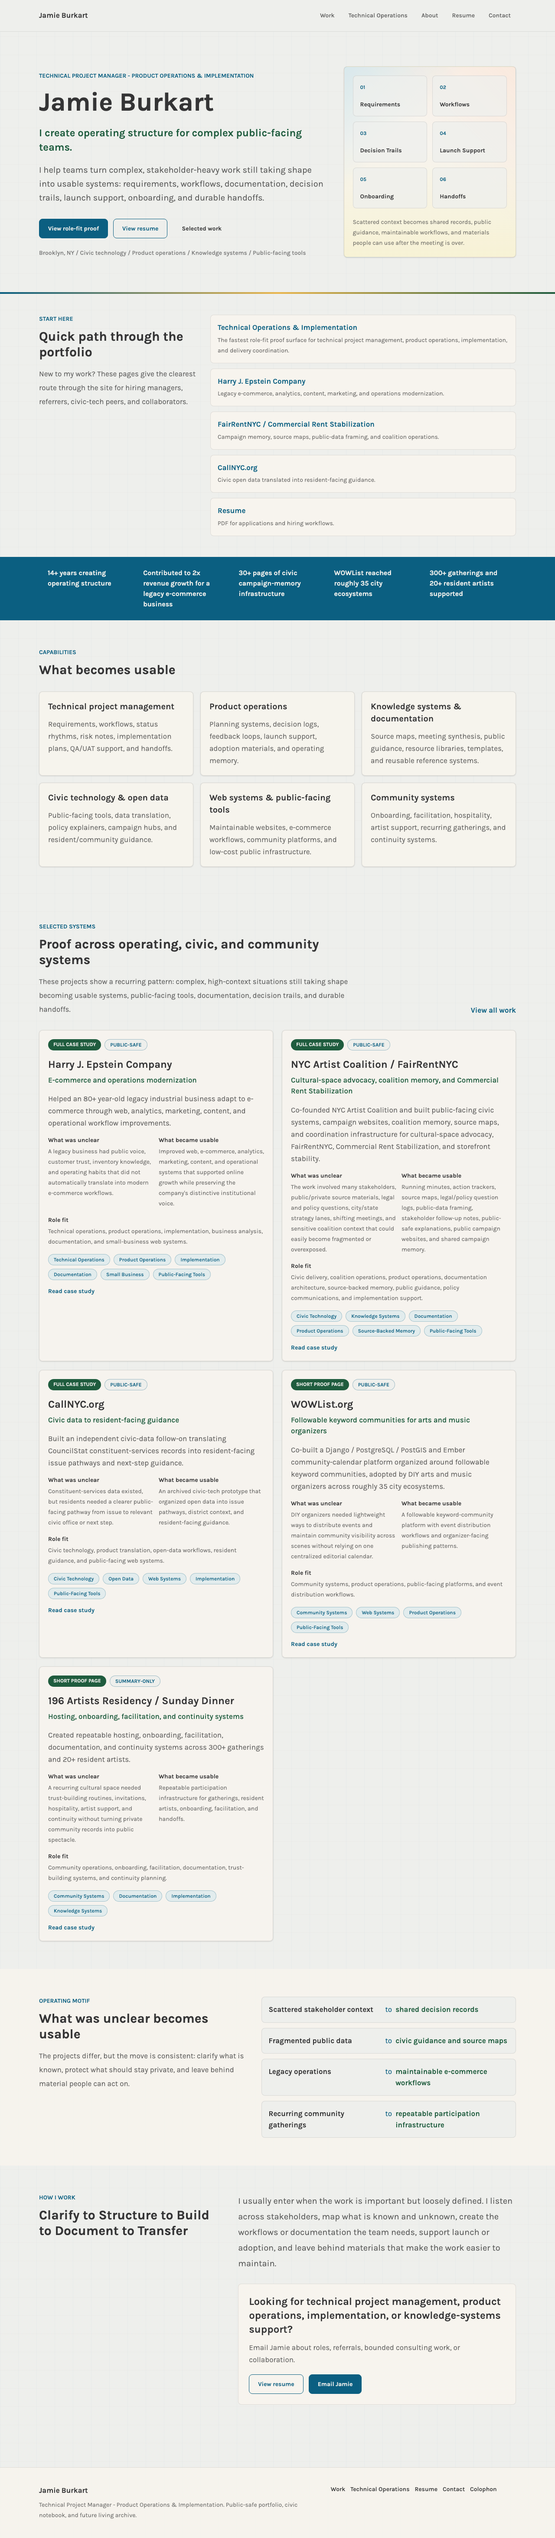
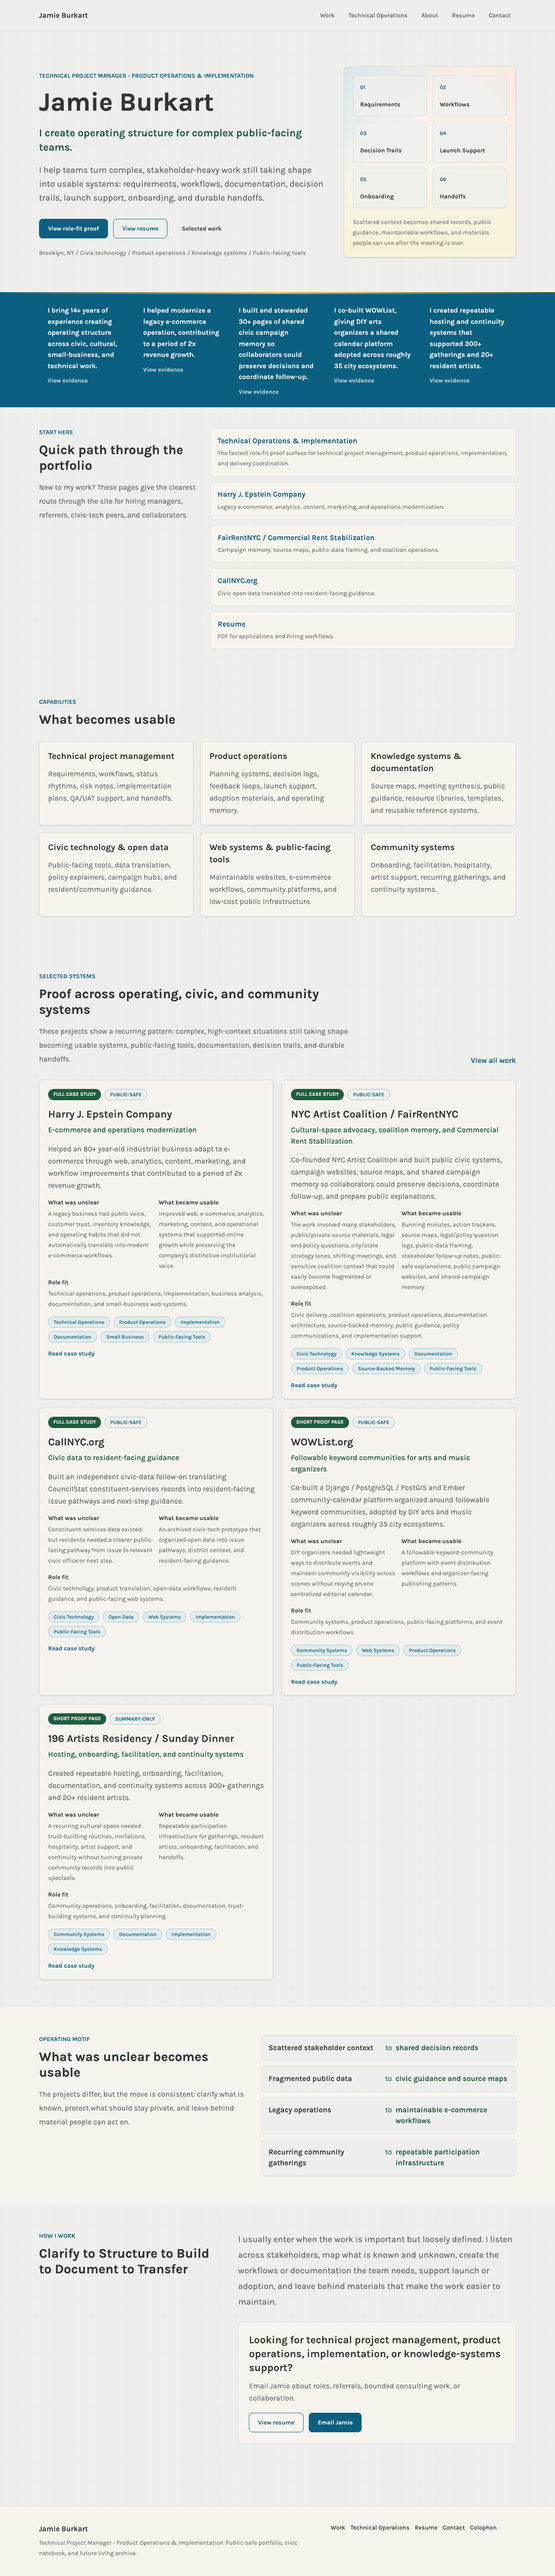
docs: record Chad-lens hill climb

diff --git a/docs/qa/evals-G/README.md b/docs/qa/evals-G/README.md
@@ -1,15 +1,15 @@
 # Recursive Portfolio Eval Run: feature/evals-G
 
-- Date: 2026-07-12
+- Date: 2026-07-13
 - Base: `origin/develop` at `2ec37fe6e47d11e600ede204d19a98f7d3cff139`
-- Reviewed application candidate: `b772a6f3`
-- Protocol: `portfolio-production-readiness`, version 2
+- Reviewed application candidate: `5d872a92`
+- Protocol: `portfolio-production-readiness`, version 3
 - Decision: `stop_human_blocked`
 
 ## Result
 
 The candidate clears the deterministic and LLM-scored portion of the
-application-share profile with a normalized weighted score of `0.8354` against
+application-share profile with a normalized weighted score of `0.8537` against
 a minimum of `0.80`. It is not yet application-share eligible because the
 profile requires Jamie's approval of the exact resume, contact path, and public
 claim set.
@@ -29,6 +29,13 @@ qualitative criteria, hard constraints, and production gates did not change.
 The unchanged code candidate then passed the complete production preflight
 twice under version 2.
 
+Version 3 adds `PR-015`, a blocking Chad-lens criterion: can a warm referrer
+send the portfolio to a hiring manager with one accurate sentence and no
+apology? The initial substantive blind panel scored the prior projection
+`3, 4, 3` (median `3`). One bounded iteration moved linked, actor-led approved
+proof directly beneath the hero and strengthened two featured summaries. Two
+unchanged-candidate confirmation panels then scored `4, 4, 4` and `4, 4, 4`.
+
 ## Scorecard
 
 | Eval | Baseline | Final | State |
@@ -47,11 +54,13 @@ twice under version 2.
 | PR-012 Exact-candidate approval | Not observed | Not observed | Human decision remains |
 | PR-013 AI and memory proof | 2 | 4 | Improved |
 | PR-014 Application packet | 1 | 2 | Production URL check remains |
+| PR-015 Chad-lens professional legibility | 3 | 4 | Blocking pass; two consecutive three-judge medians of 4 |
 
 The final application profile includes `PR-001` through `PR-007`, `PR-009`,
-`PR-010`, `PR-013`, and `PR-014`; its included weights total `82`. The weighted
-points are `68.5`, yielding `68.5 / 82 = 0.8354`. The all-eval production score
-is `0.765`, before the unsatisfied launch and human-approval gates.
+`PR-010`, `PR-013`, `PR-014`, and `PR-015`; its included weights total `82`.
+The weighted points are `70`, yielding `70 / 82 = 0.8537`. The all-eval
+production score is `0.78`, before the unsatisfied launch and human-approval
+gates.
 
 ## Changes Accepted
 
@@ -68,26 +77,31 @@ is `0.765`, before the unsatisfied launch and human-approval gates.
 8. Reduced repeated public governance layers in case-study presentation.
 9. Aligned sitemap and route-specific indexing behavior, preserving `noindex`
    only on the phone-bearing resume PDF.
+10. Added and satisfied a blocking Chad-lens eval by placing five linked,
+    actor-led approved proofs directly beneath the hero and joining action,
+    usable result, consequence, and calibrated shared causality.
 
 ## Verification
 
 - Complete production preflight: passed twice on unchanged candidate
 - Citation tests: 9 passed
-- Portfolio eval schema tests: 8 passed
-- Application contract tests: 13 passed
+- Portfolio eval schema tests: 9 passed
+- Application contract tests: 14 passed
 - TypeScript, ESLint, Next.js production build: passed
 - Knowledge-bank and public-safety checks: passed with 10 intentional careful-
   claim guardrail warnings
 - Production Docker image: `jamieburk-art:evals-g`
[2 lines of base64/hex data omitted]
 - Canonical route smoke: 14 of 14 passed
 - Responsive matrix: 14 routes at 320, 375, 768, and 1280 pixels; 56 of 56
   passed with no overflow, duplicate IDs, broken fragments, or console errors
 - Production health, robots, sitemap, HTML resume, and PDF headers: passed
+- PR-015 blind panels: baseline median 3; two consecutive final medians of 4
 
 ## Visual Evidence
 
 - [Homepage, 1280 pixels](./homepage-1280.png)
+- [Homepage, 320 pixels](./homepage-320.png)
 - [Technical Operations, 320 pixels](./technical-operations-320.png)
 - [Source-Backed Team Memory, 320 pixels](./source-backed-memory-320.png)
 
